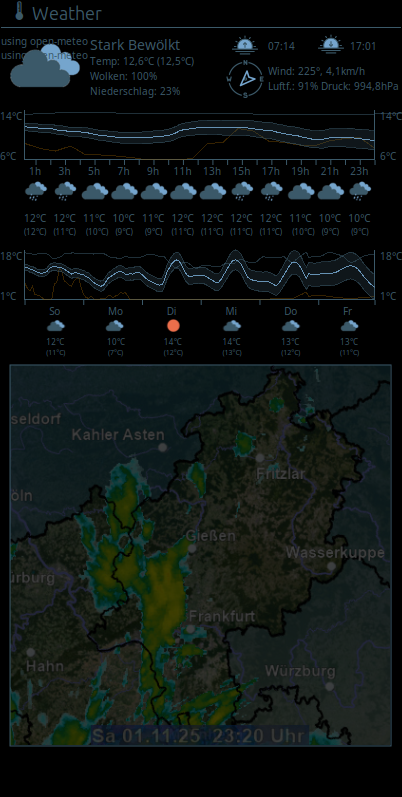
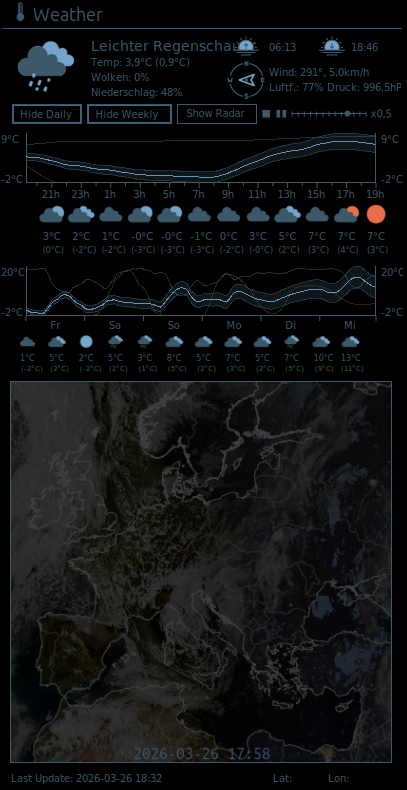
* central settings handling using a settings.properties * minor fixes

diff --git a/README.md b/README.md
@@ -1,10 +1,10 @@
 # Conky Weather Widget
 
-A Weather Widget for [Conky](https://github.com/brndnmtthws/conky) using [wttr.in](https://github.com/chubin/wttr.in) or [open-meteo.com](https://open-meteo.com) for Weather-Data and [dwd.de](https://dwd.de) for Rain Radar Images from Germany and [EUMETSAT](https://www.eumetsat.int/) for Satellite Images. The widget stays respects the Free Rate Limits of these Services, so no API-Keys are needed.
+A Weather Widget for [Conky](https://github.com/brndnmtthws/conky) using [wttr.in](https://github.com/chubin/wttr.in) or [open-meteo.com](https://open-meteo.com) for Weather-Data and [dwd.de](https://dwd.de) for Rain Radar Images from Germany and [EUMETSAT](https://www.eumetsat.int/) for Satellite Images. The widget respects the free rate-limits of these Services, so no API-Keys are needed.
 
  ![Conky Weather Widget Preview](./weather.conky.png)
 
-The Charts show the baseline Temperature in light blue with an randomly estimated error rate, filled in a darker blue. The orange line indicates the chance of precipitation and the single darker blue line the humidity. The vertical red line shows the current time. 
+The Charts show the baseline Temperature in light blue with an randomly estimated error rate, filled in a darker blue. The orange line indicates the chance of precipitation and the single darker blue line the humidity. Mouseover shows the Temperature at the given Time.
 
 The Radar Image is shown as an animation of the Images from the last 60 minutes in 5min steps. The Satellite animation shows the last 2 Hours in 10min steps.
 
@@ -12,11 +12,10 @@ Icons are based on [OpenWeatherMap Icons](https://github.com/rodrigokamada/openw
 
 ## General Setup
 
-Move these files to `~/.conky/weather-widget/`. Then install lua-json and imagemagick.
+Move these files to `~/.conky/weather-widget/` and install lua-json and imagemagick.
 
     sudo apt install lua-json
     sudo apt install imagemagick
-
 
 ## Setup Weather Data
 
@@ -24,38 +23,25 @@ You can choose between wttr.in and open-meteo.com as Providers for the Weather D
 
 ### wttr.in
 
-`wttr.in` tries to fetch the right Weather Info based on you IP by default. If that isn't sufficient, you can add the Location at the end of the `texecpi`-command. To use the widget, edit the `weather.conky`: 
+`wttr.in` tries to fetch the right Weather Info based on you IP by default. If that isn't sufficient, you can specify the Location in the `settings.properties` as `location_name`. To use the widget, edit the `weather.conky`: 
 
     lua_load = '~/.conky/weather-widget/lua/WttrWeatherWidget.lua'
 
-and
-
-    ${texecpi 60 ~/.conky/weather-widget/weather.sh wttr YOUR_LOCATION_NAME}
 
 ### open-meteo.com
 
-For `open-meteo.com` you need to specify your Lat/Lon coordinates. You might want to search for the correct coordinates using https://open-meteo.com/en/docs as open-meteo seems to map the coordinates to those of the nearest station witch might not always be the best fit. Edit in the weather.conky
+For `open-meteo.com` you need to specify your Lat/Lon coordinates in the `settings.properties`. You might want to search for the correct coordinates using https://open-meteo.com/en/docs as open-meteo seems to map the coordinates to those of the nearest station which might not always be the best fit. Edit in the weather.conky
 
     lua_load = '~/.conky/weather-widget/lua/OpenMeteoWeatherWidget.lua'
 
-and
-
-    ${texecpi 60 ~/.conky/weather-widget/weather.sh open-meteo LATITUDE LONGITUDE}
 
 ## Setup Radar View
 
-To set up the Radar View edit the `weather.sh` and specify your `REGION` in line 21:
+To set up the Radar View edit the `region_name` in the `settings.properties`
+For available regions, check the [DWD Homepage](https://www.dwd.de/DE/leistungen/radarbild_film/radarbild_film.html)
 
-    get_and_crop_radar_log=$($HOME/.conky/weather-widget/get_and_crop_radar_image.sh "REGION" "DETAIL_VIEW_X" "DETAIL_VIEW_Y")
-
-For available `REGION`s check the [DWD Homepage](https://www.dwd.de/DE/leistungen/radarbild_film/radarbild_film.html)
-
-If `DETAIL_VIEW_X` and `DETAIL_VIEW_Y` are specified, a 3x zoomed, 150x150px detail view from the specified coordinates will be shown in the upper left corner (see preview).
-
-Also edit the `./lua/WttrWeatherWidget.lua` at line 123 & 124 to show a target indicator at your location:
-
-    local target_x = %YOUR_HOME_X% + x
-    local target_y = %YOUR_HOME_Y% + y
+If `detail_x` and `detail_y` are specified, a 3x zoomed, 150x150px detail view from the specified coordinates in the original image (at `./gif_frames_raw/latest_radar_view.png`) will be shown in the upper left corner (see preview).
+Use `detail_target_x`and `detail_target_y` to specify the coordinates of a target indicator in the final image.
 
 ## Satellite View
 
